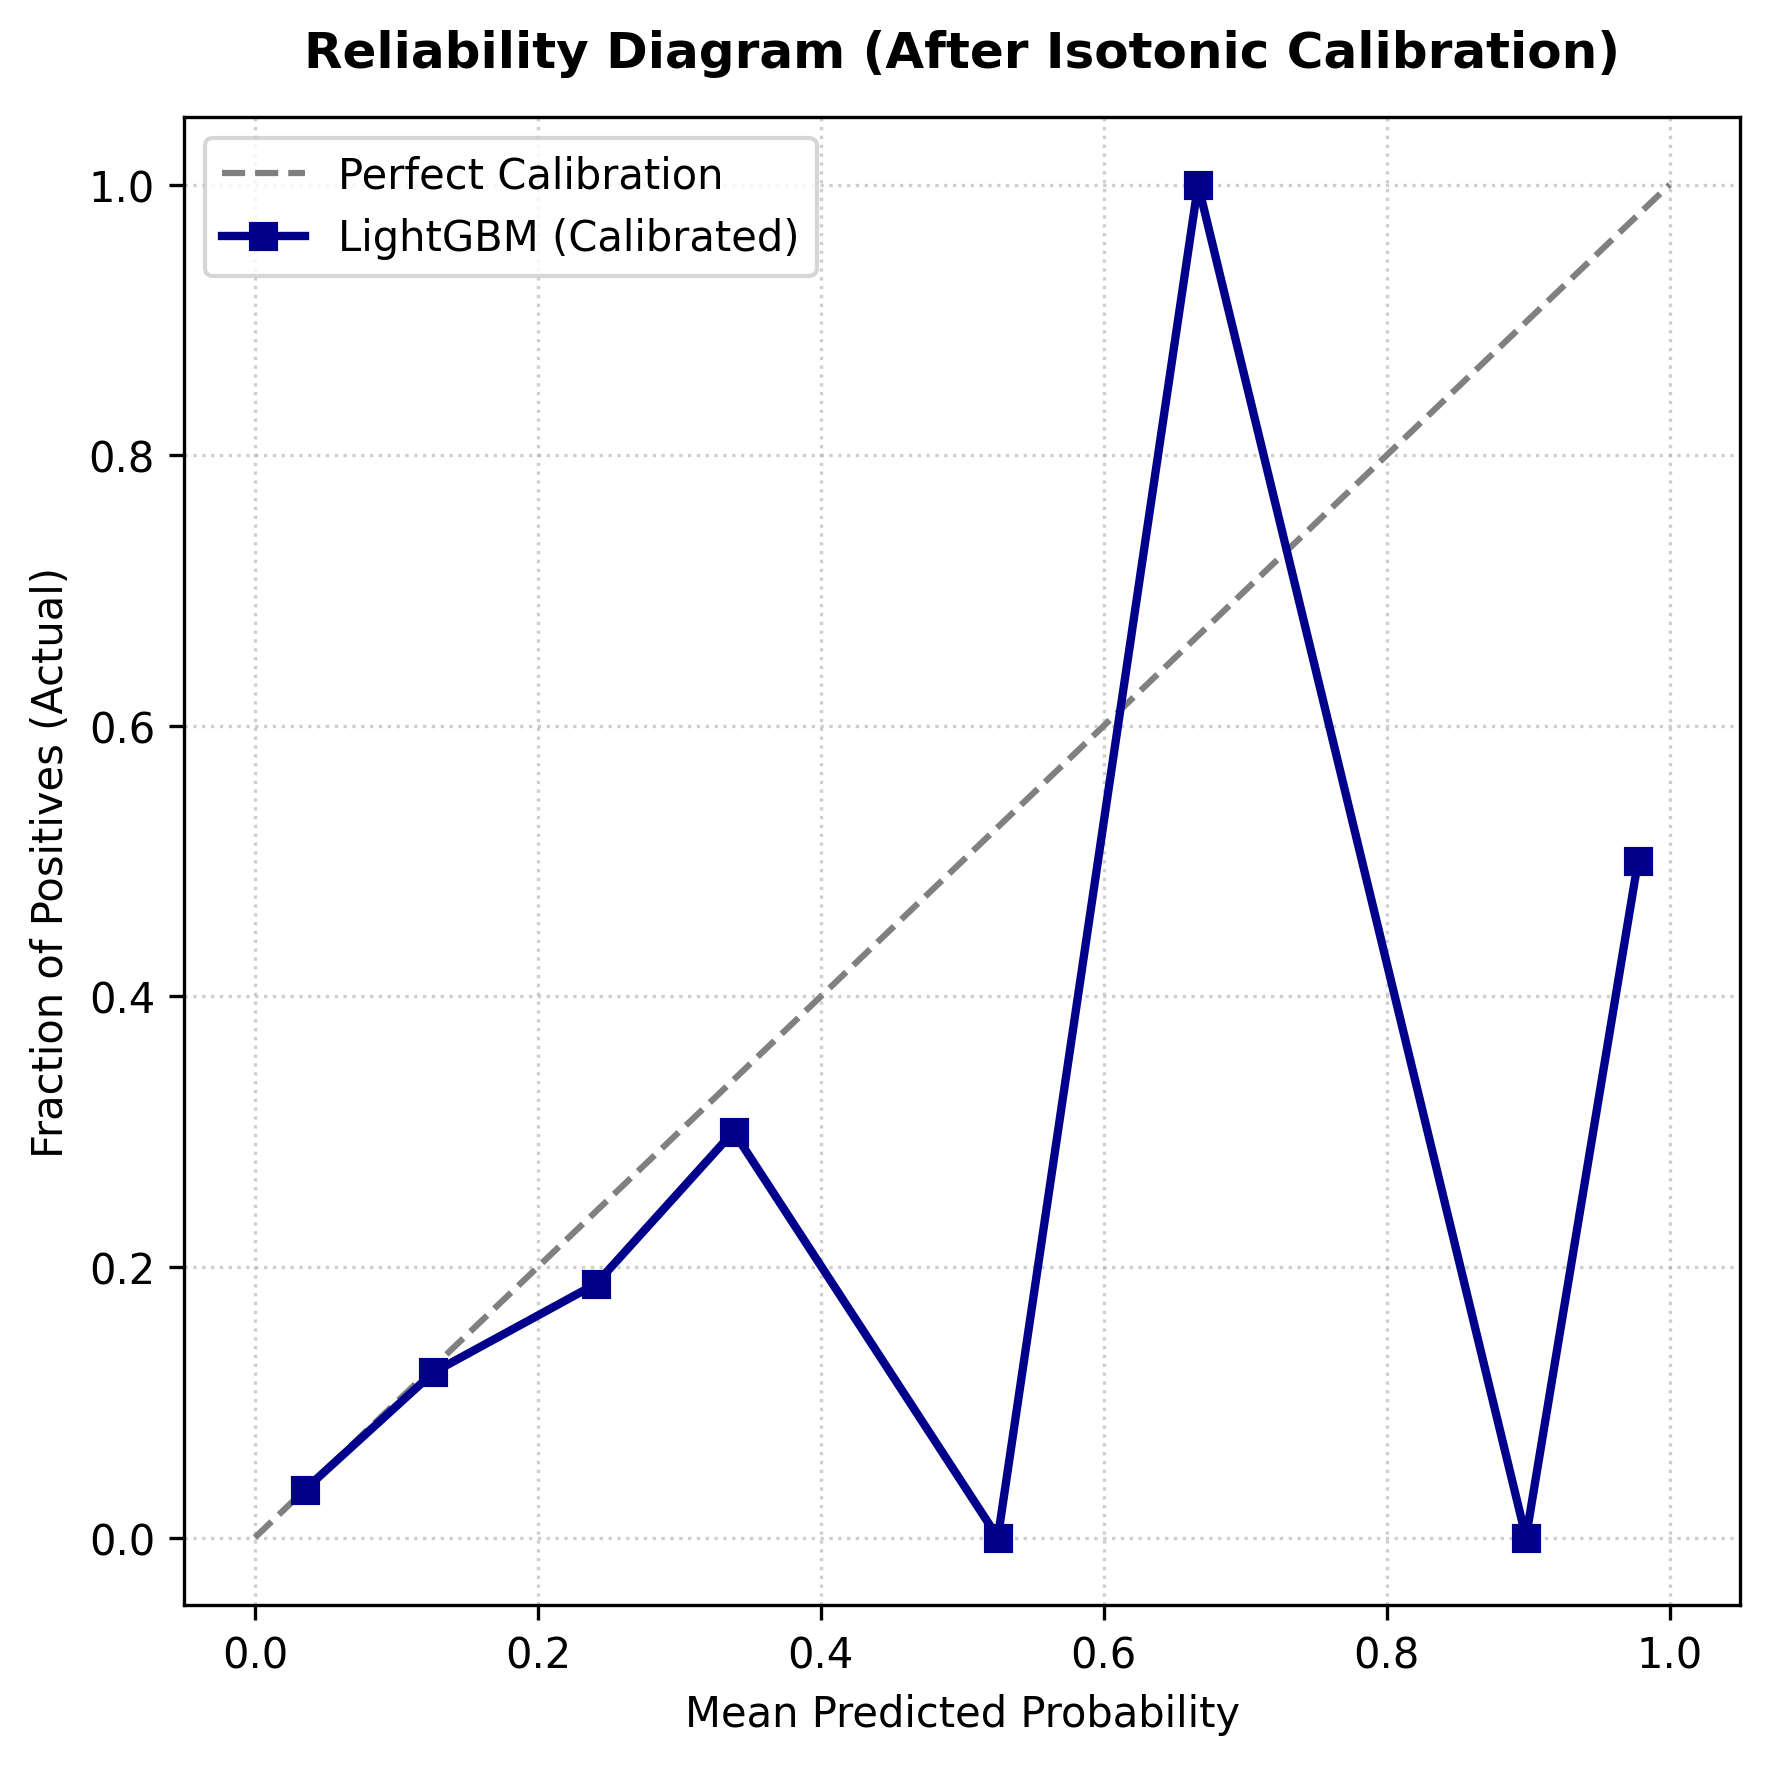
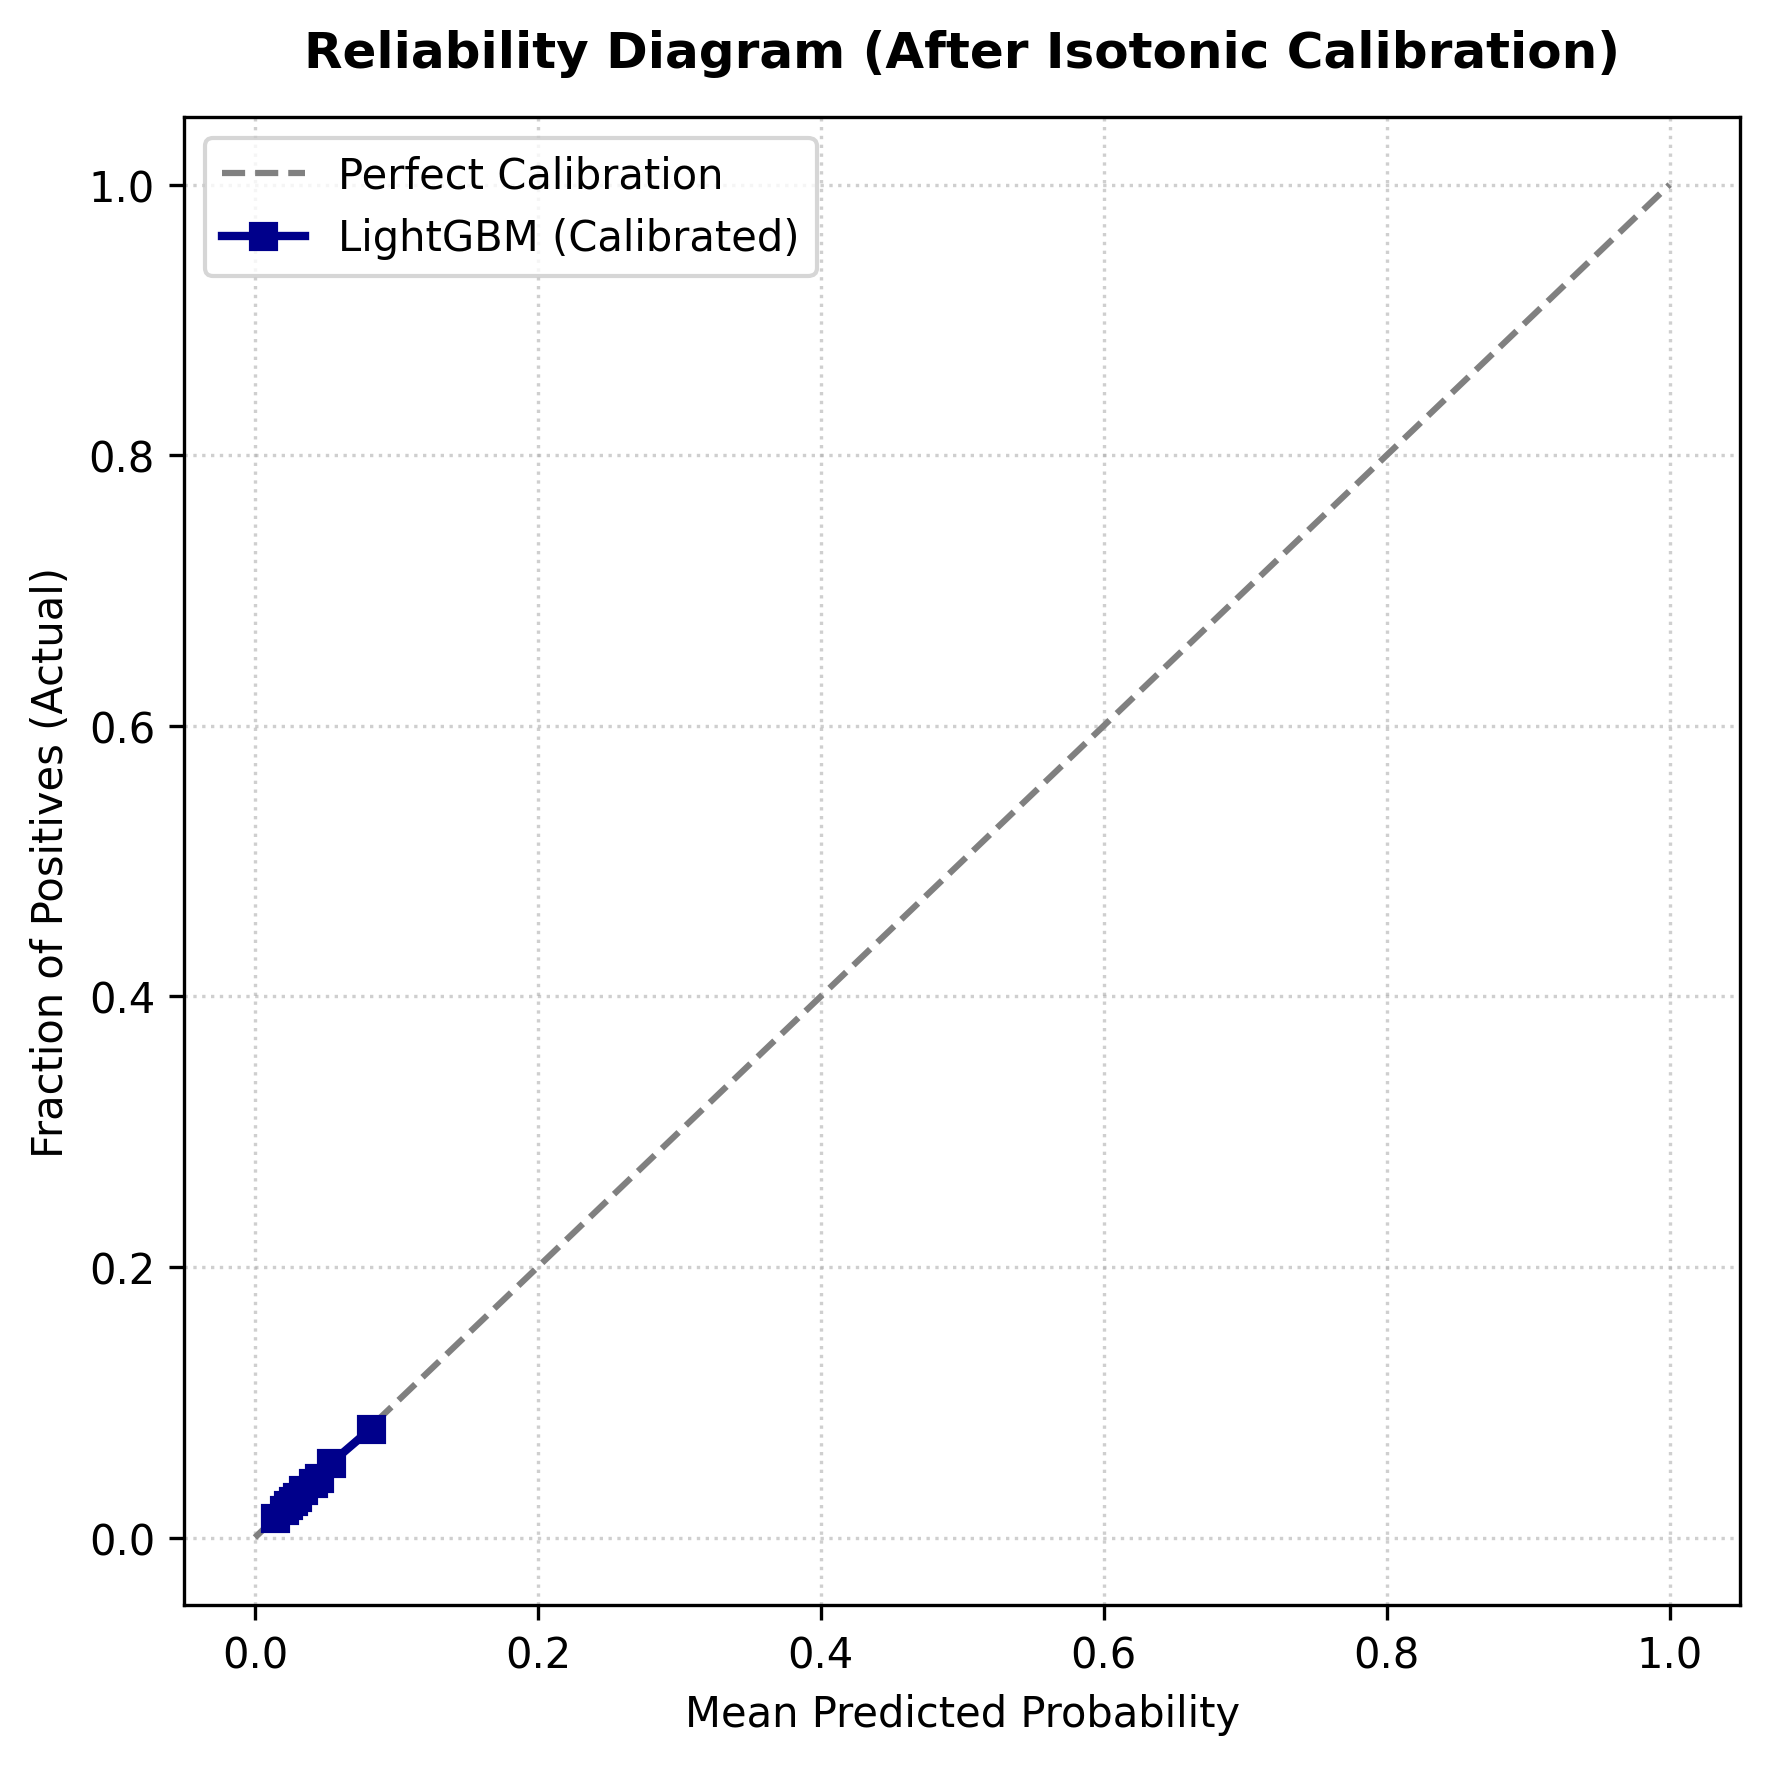
lgbm zoomed calibration diagram

diff --git a/03a_ModelTraining_Bootstrap.py b/03a_ModelTraining_Bootstrap.py
@@ -60,8 +60,10 @@ def evaluate_ranking(y_true, y_probs, k_percent_list=[0.005, 0.01, 0.02]):
 def calculate_ece(y_true, y_probs, n_bins=10):
     """Calculate Expected Calibration Error."""
     from sklearn.calibration import calibration_curve
+
+    prob_true, prob_pred = calibration_curve(y_true, y_probs, n_bins=n_bins, strategy='quantile')
+     #prob_true, prob_pred = calibration_curve(y_true, y_probs, n_bins=n_bins)
  
-    prob_true, prob_pred = calibration_curve(y_true, y_probs, n_bins=n_bins)
     bins = np.linspace(0, 1, n_bins + 1)
     active_bin_indices = np.digitize(prob_pred, bins) - 1
     active_bin_indices = np.clip(active_bin_indices, 0, n_bins - 1)
@@ -80,7 +82,7 @@ def plot_reliability_diagram(y_true, y_probs, n_bins=10, title="Reliability Diag
     """Plots and saves an academic-grade Reliability Diagram (Calibration Curve)."""
     from sklearn.calibration import calibration_curve
  
-    prob_true, prob_pred = calibration_curve(y_true, y_probs, n_bins=n_bins)
+    prob_true, prob_pred = calibration_curve(y_true, y_probs, n_bins=n_bins, strategy='quantile')
  
     plt.figure(figsize=(6, 6))
     plt.plot([0, 1], [0, 1], linestyle='--', color='gray', label='Perfect Calibration')
@@ -100,6 +102,68 @@ def plot_reliability_diagram(y_true, y_probs, n_bins=10, title="Reliability Diag
     plt.savefig(out_png, dpi=300, bbox_inches='tight')
     plt.close()
     print(f"✓ Saved reliability diagram to: {out_png}")
+
+    # ============================================================
+    # ZOOMED RELIABILITY DIAGRAM (0-10%)
+    # ============================================================
+
+    plt.figure(figsize=(6, 6))
+
+    plt.plot(
+        [0, 0.10],
+        [0, 0.10],
+        linestyle='--',
+        color='gray',
+        label='Perfect Calibration'
+    )
+
+    plt.plot(
+        prob_pred,
+        prob_true,
+        marker='s',
+        color='darkblue',
+        linewidth=2,
+        label='LightGBM (Calibrated)'
+    )
+
+    plt.xlim(0, 0.10)
+    plt.ylim(0, 0.10)
+
+    plt.title(
+        'Reliability Diagram (Zoomed: 0–10%)',
+        fontsize=12,
+        fontweight='bold',
+        pad=12
+    )
+
+    plt.xlabel(
+        'Mean Predicted Probability',
+        fontsize=10
+    )
+
+    plt.ylabel(
+        'Fraction of Positives (Actual)',
+        fontsize=10
+    )
+
+    plt.grid(True, linestyle=':', alpha=0.6)
+    plt.legend(loc='upper left', fontsize=10)
+    plt.tight_layout()
+
+    out_png_zoomed = os.path.join(
+        output_dir,
+        'lgbm_reliability_diagram_zoomed.png'
+    )
+
+    plt.savefig(
+        out_png_zoomed,
+        dpi=300,
+        bbox_inches='tight'
+    )
+
+    plt.close()
+    print(f"✓ Zoomed reliability diagram saved to: {out_png_zoomed}")
+
  
  
 # ============================================================================

diff --git a/02a_BaselineModels.py b/02a_BaselineModels.py
@@ -1,5 +1,5 @@
 """
-2b: Model comparison for selection (ALL FEATURES & Bootstrap CI)
+2a: Model comparison for selection (ALL FEATURES & Bootstrap CI)
 ================================================================================
 This is the baseline comparison script.It uses ALL preprocessed features for LightGBM, RandomForest,
 and XGBoost. 
